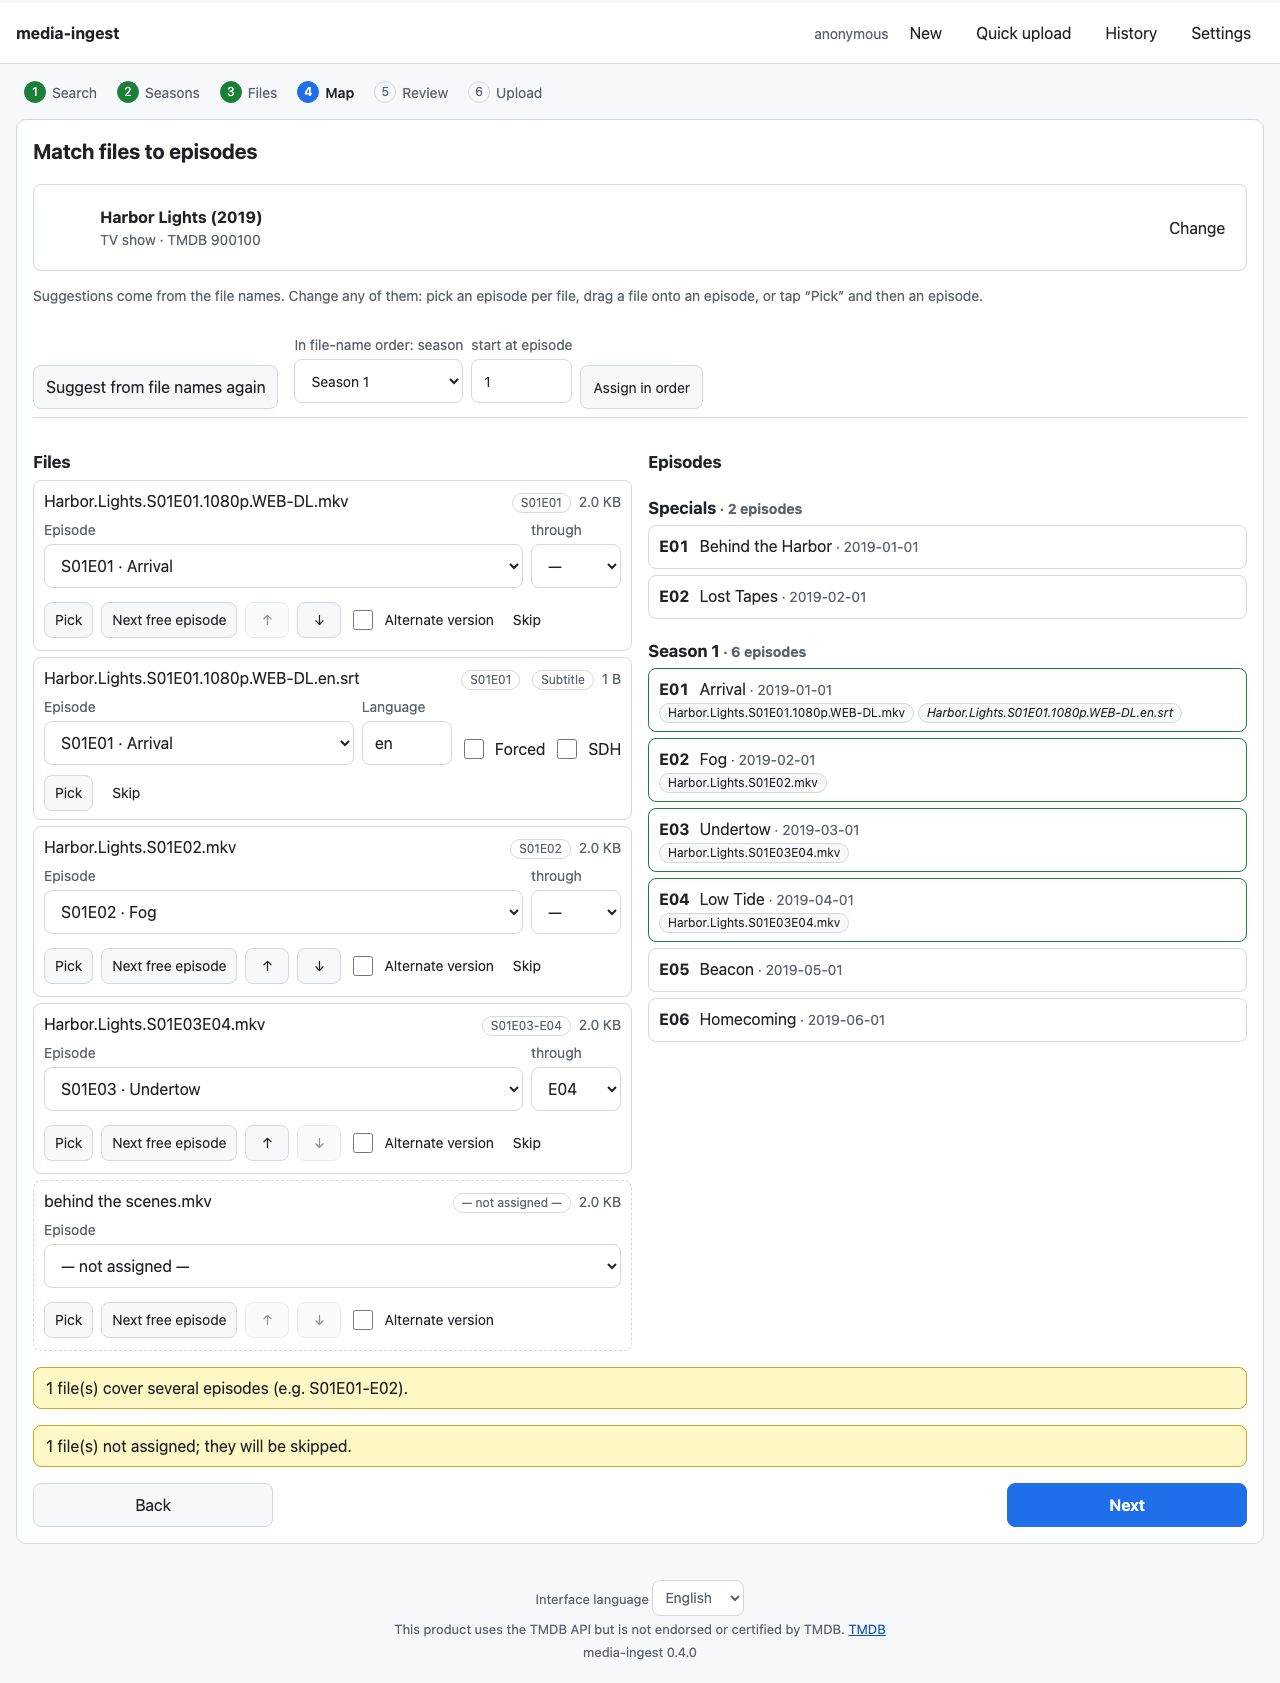
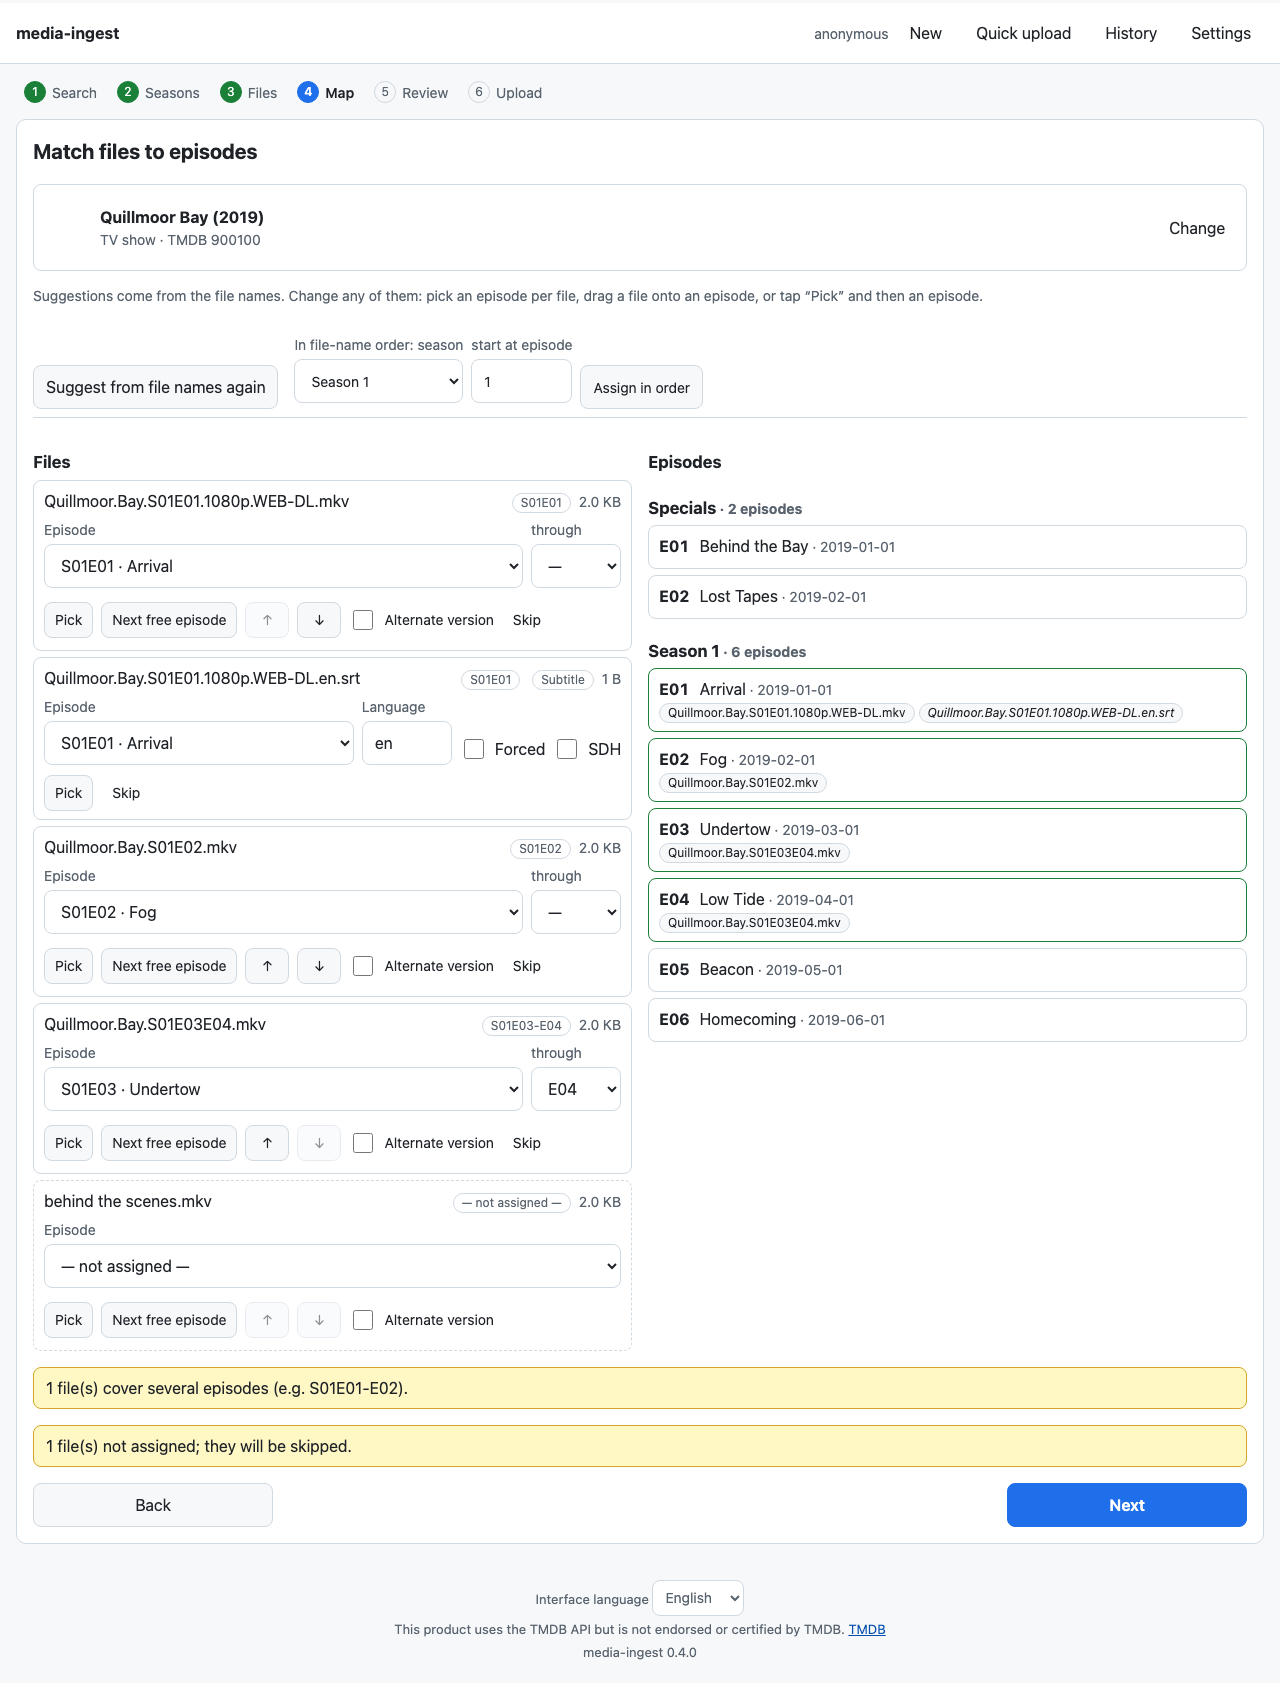
Update docs

diff --git a/internal/server/tv_test.go b/internal/server/tv_test.go
@@ -11,7 +11,7 @@ import (
 	"github.com/configtheworld/media-digest/internal/ingest"
 )
 
-const show = "tv/Harbor Lights (2019) [tmdbid-900100]"
+const show = "tv/Quillmoor Bay (2019) [tmdbid-900100]"
 
 func tvReq(items ...map[string]any) map[string]any {
 	return map[string]any{"provider": "tmdb", "id": "900100", "language": "en-US", "folder": map[string]any{"mode": "auto"}, "items": items}
@@ -55,10 +55,10 @@ func TestTVPlanNaming(t *testing.T) {
 		t.Fatalf("plan: %d", code)
 	}
 	want := map[string]string{
-		"a": show + "/Season 01/Harbor Lights - S01E01 - Arrival.mkv",
-		"s": show + "/Season 01/Harbor Lights - S01E01 - Arrival.en.srt",
-		"b": show + "/Season 01/Harbor Lights - S01E03-E04 - Undertow & Low Tide.mkv",
-		"c": show + "/Season 00/Harbor Lights - S00E01 - Behind the Harbor.mp4",
+		"a": show + "/Season 01/Quillmoor Bay - S01E01 - Arrival.mkv",
+		"s": show + "/Season 01/Quillmoor Bay - S01E01 - Arrival.en.srt",
+		"b": show + "/Season 01/Quillmoor Bay - S01E03-E04 - Undertow & Low Tide.mkv",
+		"c": show + "/Season 00/Quillmoor Bay - S00E01 - Behind the Bay.mp4",
 	}
 	got := paths(plan)
 	for k, w := range want {
@@ -82,9 +82,9 @@ func TestTVAlternateVersionsRequired(t *testing.T) {
 	e.json("POST", "/api/plan/tv", tvReq(ep("a", "a.mkv", 1, 2, "version", "1080p"), ep("b", "b.mkv", 1, 2, "version", "2160p"),
 		ep("s", "b.de.srt", 1, 2, "version", "2160p", "lang", "de")), &plan)
 	got := paths(plan)
-	if got["a"] != show+"/Season 01/Harbor Lights - S01E02 - Fog - 1080p.mkv" ||
-		got["b"] != show+"/Season 01/Harbor Lights - S01E02 - Fog - 2160p.mkv" ||
-		got["s"] != show+"/Season 01/Harbor Lights - S01E02 - Fog - 2160p.de.srt" {
+	if got["a"] != show+"/Season 01/Quillmoor Bay - S01E02 - Fog - 1080p.mkv" ||
+		got["b"] != show+"/Season 01/Quillmoor Bay - S01E02 - Fog - 2160p.mkv" ||
+		got["s"] != show+"/Season 01/Quillmoor Bay - S01E02 - Fog - 2160p.de.srt" {
 		t.Fatalf("%v", got)
 	}
 }
@@ -117,10 +117,10 @@ func TestTVValidation(t *testing.T) {
 
 func TestTVLibraryAwarenessAndReplace(t *testing.T) {
 	e := newEnv(t, config.AuthProxy)
-	old := show + "/Season 01/Harbor.Lights.S01E02.720p.mkv"
+	old := show + "/Season 01/Quillmoor.Bay.S01E02.720p.mkv"
 	os.MkdirAll(filepath.Join(e.media, filepath.Dir(old)), 0o755)
 	os.WriteFile(filepath.Join(e.media, old), []byte("old"), 0o644)
-	os.WriteFile(filepath.Join(e.media, show, "Season 01", "Harbor.Lights.S01E05E06.mkv"), []byte("x"), 0o644)
+	os.WriteFile(filepath.Join(e.media, show, "Season 01", "Quillmoor.Bay.S01E05E06.mkv"), []byte("x"), 0o644)
 
 	var lib ingest.LibraryView
 	if code := e.json("GET", "/api/library/tmdb/tv/900100?lang=en-US", nil, &lib); code != 200 {
@@ -142,7 +142,7 @@ func TestTVLibraryAwarenessAndReplace(t *testing.T) {
 		t.Fatalf("existing episode not detected: %+v", plan.Items[0])
 	}
 	// A subtitle for an episode that exists only in the library follows that file's name.
-	if got := paths(plan)["s"]; got != show+"/Season 01/Harbor.Lights.S01E05E06.en.srt" {
+	if got := paths(plan)["s"]; got != show+"/Season 01/Quillmoor.Bay.S01E05E06.en.srt" {
 		t.Fatalf("subtitle path %q", got)
 	}
 	var apiErr apiError
@@ -163,7 +163,7 @@ func TestTVLibraryAwarenessAndReplace(t *testing.T) {
 	if got.Status != "done" {
 		t.Fatalf("%+v", got)
 	}
-	newPath := show + "/Season 01/Harbor Lights - S01E02 - Fog.mkv"
+	newPath := show + "/Season 01/Quillmoor Bay - S01E02 - Fog.mkv"
 	if b, _ := os.ReadFile(filepath.Join(e.media, newPath)); string(b) != "new!" {
 		t.Fatalf("new file %q", b)
 	}
@@ -186,7 +186,7 @@ func TestTVLibraryAwarenessAndReplace(t *testing.T) {
 
 func TestTVKeepBothWithExistingEpisode(t *testing.T) {
 	e := newEnv(t, config.AuthProxy)
-	target := show + "/Season 01/Harbor Lights - S01E01 - Arrival.mkv"
+	target := show + "/Season 01/Quillmoor Bay - S01E01 - Arrival.mkv"
 	os.MkdirAll(filepath.Join(e.media, filepath.Dir(target)), 0o755)
 	os.WriteFile(filepath.Join(e.media, target), []byte("old"), 0o644)
 	req := tvReq(ep("a", "a.mkv", 1, 1, "policy", "keep_both"))
@@ -195,7 +195,7 @@ func TestTVKeepBothWithExistingEpisode(t *testing.T) {
 	e.upload(batch.ID, batch.Items[0].ID, []byte("new!"))
 	var got ingest.BatchView
 	e.json("GET", "/api/batches/"+batch.ID, nil, &got)
-	if p := got.Items[0].FinalPath; p != show+"/Season 01/Harbor Lights - S01E01 - Arrival - Version 2.mkv" {
+	if p := got.Items[0].FinalPath; p != show+"/Season 01/Quillmoor Bay - S01E01 - Arrival - Version 2.mkv" {
 		t.Fatalf("%q", p)
 	}
 	if b, _ := os.ReadFile(filepath.Join(e.media, target)); string(b) != "old" {
@@ -205,10 +205,10 @@ func TestTVKeepBothWithExistingEpisode(t *testing.T) {
 
 func TestTVFolderReuse(t *testing.T) {
 	e := newEnv(t, config.AuthProxy)
-	os.MkdirAll(filepath.Join(e.media, "tv", "Harbor Lights {tmdb-900100}", "Season 1"), 0o755)
+	os.MkdirAll(filepath.Join(e.media, "tv", "Quillmoor Bay {tmdb-900100}", "Season 1"), 0o755)
 	var plan ingest.Plan
 	e.json("POST", "/api/plan/tv", tvReq(ep("a", "a.mkv", 2, 1)), &plan)
-	if plan.FolderSource != "existing-id" || paths(plan)["a"] != "tv/Harbor Lights {tmdb-900100}/Season 02/Harbor Lights - S02E01 - Return.mkv" {
+	if plan.FolderSource != "existing-id" || paths(plan)["a"] != "tv/Quillmoor Bay {tmdb-900100}/Season 02/Quillmoor Bay - S02E01 - Return.mkv" {
 		t.Fatalf("%+v", plan)
 	}
 }

diff --git a/internal/server/m3_test.go b/internal/server/m3_test.go
@@ -66,7 +66,7 @@ func TestUndoRestoresReplacedFilesAndNotifiesJellyfin(t *testing.T) {
 	})
 
 	// Library: an old copy of S01E02 under another name.
-	old := show + "/Season 01/Harbor.Lights.S01E02.720p.mkv"
+	old := show + "/Season 01/Quillmoor.Bay.S01E02.720p.mkv"
 	os.MkdirAll(filepath.Join(e.media, filepath.Dir(old)), 0o755)
 	os.WriteFile(filepath.Join(e.media, old), []byte("old"), 0o644)
 
@@ -81,8 +81,8 @@ func TestUndoRestoresReplacedFilesAndNotifiesJellyfin(t *testing.T) {
 	for _, u := range jf.last() {
 		got[u["Path"]] = u["UpdateType"]
 	}
-	if got["/jf/"+old] != "Deleted" || got["/jf/"+show+"/Season 01/Harbor Lights - S01E02 - Fog.mkv"] != "Created" ||
-		got["/jf/"+show+"/Season 02/Harbor Lights - S02E01 - Return.mkv"] != "Created" {
+	if got["/jf/"+old] != "Deleted" || got["/jf/"+show+"/Season 01/Quillmoor Bay - S01E02 - Fog.mkv"] != "Created" ||
+		got["/jf/"+show+"/Season 02/Quillmoor Bay - S02E01 - Return.mkv"] != "Created" {
 		t.Fatalf("jellyfin updates %v", got)
 	}
 	var view ingest.BatchView
@@ -96,7 +96,7 @@ func TestUndoRestoresReplacedFilesAndNotifiesJellyfin(t *testing.T) {
 	}
 
 	// Someone changed one published file afterwards: undo must leave it alone.
-	changed := filepath.Join(e.media, show, "Season 02", "Harbor Lights - S02E01 - Return.mkv")
+	changed := filepath.Join(e.media, show, "Season 02", "Quillmoor Bay - S02E01 - Return.mkv")
 	os.WriteFile(changed, []byte("edited by someone else"), 0o644)
 
 	var undone ingest.BatchView
@@ -109,7 +109,7 @@ func TestUndoRestoresReplacedFilesAndNotifiesJellyfin(t *testing.T) {
 	if b, _ := os.ReadFile(filepath.Join(e.media, old)); string(b) != "old" {
 		t.Fatal("replaced file was not restored")
 	}
-	if _, err := os.Stat(filepath.Join(e.media, show, "Season 01", "Harbor Lights - S01E02 - Fog.mkv")); !os.IsNotExist(err) {
+	if _, err := os.Stat(filepath.Join(e.media, show, "Season 01", "Quillmoor Bay - S01E02 - Fog.mkv")); !os.IsNotExist(err) {
 		t.Fatal("published file still in the library")
 	}
 	if b, _ := os.ReadFile(changed); string(b) != "edited by someone else" {

diff --git a/internal/naming/naming_test.go b/internal/naming/naming_test.go
@@ -71,7 +71,7 @@ func TestExt(t *testing.T) {
 
 func TestPresetsRender(t *testing.T) {
 	movie := Vars{"title": "The Clockwork Garden", "year": 2015, "id": "900001"}
-	tv := Vars{"show": "Northwind", "year": 2017, "id": "900200", "season": 1, "episode": 3, "episode_title": "Old Tides"}
+	tv := Vars{"show": "Tidewick", "year": 2017, "id": "900200", "season": 1, "episode": 3, "episode_title": "Old Tides"}
 	tests := []struct {
 		preset, kind string
 		vars         Vars
@@ -80,8 +80,8 @@ func TestPresetsRender(t *testing.T) {
 		{"jellyfin", "movie", movie, "The Clockwork Garden (2015) [tmdbid-900001]/The Clockwork Garden (2015) [tmdbid-900001]"},
 		{"plex", "movie", movie, "The Clockwork Garden (2015) {tmdb-900001}/The Clockwork Garden (2015) {tmdb-900001}"},
 		{"emby", "movie", movie, "The Clockwork Garden (2015) [tmdbid=900001]/The Clockwork Garden (2015)"},
-		{"jellyfin", "tv", tv, "Northwind (2017) [tmdbid-900200]/Season 01/Northwind - S01E03 - Old Tides"},
-		{"plex", "tv", tv, "Northwind (2017) {tmdb-900200}/Season 01/Northwind (2017) - s01e03 - Old Tides"},
+		{"jellyfin", "tv", tv, "Tidewick (2017) [tmdbid-900200]/Season 01/Tidewick - S01E03 - Old Tides"},
+		{"plex", "tv", tv, "Tidewick (2017) {tmdb-900200}/Season 01/Tidewick (2017) - s01e03 - Old Tides"},
 	}
 	for _, tt := range tests {
 		p := Presets[tt.preset]

diff --git a/internal/provider/fake/fake.go b/internal/provider/fake/fake.go
@@ -23,12 +23,12 @@ func New() *Provider {
 		"200":    {ID: "200", Title: "Untitled", Year: 0},
 	},
 		Shows: map[string]*provider.ShowDetails{
-			"900100": {ID: "900100", Title: "Harbor Lights", Year: 2019, Seasons: []provider.SeasonSummary{
+			"900100": {ID: "900100", Title: "Quillmoor Bay", Year: 2019, Seasons: []provider.SeasonSummary{
 				{Number: 0, Name: "Specials", EpisodeCount: 2}, {Number: 1, Name: "Season 1", EpisodeCount: 6}, {Number: 2, Name: "Season 2", EpisodeCount: 4}}},
 		},
 		Seasons: map[string]map[int]*provider.SeasonDetails{
 			"900100": {
-				0: {Number: 0, Name: "Specials", Episodes: eps("Behind the Harbor", "Lost Tapes")},
+				0: {Number: 0, Name: "Specials", Episodes: eps("Behind the Bay", "Lost Tapes")},
 				1: {Number: 1, Name: "Season 1", Episodes: eps("Arrival", "Fog", "Undertow", "Low Tide", "Beacon", "Homecoming")},
 				2: {Number: 2, Name: "Season 2", Episodes: eps("Return", "Drift", "Storm", "Dawn")},
 			},

diff --git a/README.md b/README.md
@@ -69,7 +69,7 @@ Full guides: **[deployment](docs/deployment.md)** · **[reverse proxies](docs/re
 
 ```
 movies/The Clockwork Garden (2015) [tmdbid-900001]/The Clockwork Garden (2015) [tmdbid-900001].mkv
-tv/Harbor Lights (2019) [tmdbid-900100]/Season 01/Harbor Lights - S01E02 - Fog.mkv
+tv/Quillmoor Bay (2019) [tmdbid-900100]/Season 01/Quillmoor Bay - S01E02 - Fog.mkv
 ```
 
 ## Screenshots
@@ -89,6 +89,15 @@ silently, and state-changing requests need a CSRF token. Details and how to repo
 
 Bug reports, translations and rule packs for more languages are very welcome — see
 [CONTRIBUTING.md](CONTRIBUTING.md). Changes are listed in the [changelog](CHANGELOG.md).
+
+## Disclaimer
+
+media-ingest only organises files you upload to your own server: it renames them and moves them into
+your library folders. It does not search for, download, stream or share media, and it does not bypass
+copy protection. Use it only with content you have the right to store and use. You are solely
+responsible for the files you process and for complying with copyright and other laws that apply to
+you. The authors and contributors do not endorse copyright infringement and accept no liability for how
+the software is used; see also the warranty and liability terms of the [MIT License](LICENSE).
 
 ## Attribution and license
 

diff --git a/docs/naming.md b/docs/naming.md
@@ -21,9 +21,9 @@ movies/The Clockwork Garden (2015) [tmdbid-900001]/The Clockwork Garden (2015) [
 movies/The Clockwork Garden (2015) [tmdbid-900001]/The Clockwork Garden (2015) [tmdbid-900001] - 2160p.mkv     (version)
 movies/The Clockwork Garden (2015) [tmdbid-900001]/The Clockwork Garden (2015) [tmdbid-900001].en.forced.srt   (subtitle)
 movies/The Clockwork Garden (2015) [tmdbid-900001]/Trailers/Official Trailer.mp4                     (extra)
-tv/Harbor Lights (2019) [tmdbid-900100]/Season 01/Harbor Lights - S01E02 - Fog.mkv
-tv/Harbor Lights (2019) [tmdbid-900100]/Season 01/Harbor Lights - S01E03-E04 - Undertow & Low Tide.mkv
-tv/Harbor Lights (2019) [tmdbid-900100]/Season 00/Harbor Lights - S00E01 - Behind the Harbor.mkv                          (special)
+tv/Quillmoor Bay (2019) [tmdbid-900100]/Season 01/Quillmoor Bay - S01E02 - Fog.mkv
+tv/Quillmoor Bay (2019) [tmdbid-900100]/Season 01/Quillmoor Bay - S01E03-E04 - Undertow & Low Tide.mkv
+tv/Quillmoor Bay (2019) [tmdbid-900100]/Season 00/Quillmoor Bay - S00E01 - Behind the Bay.mkv                          (special)
 ```
 
 ## Template syntax
